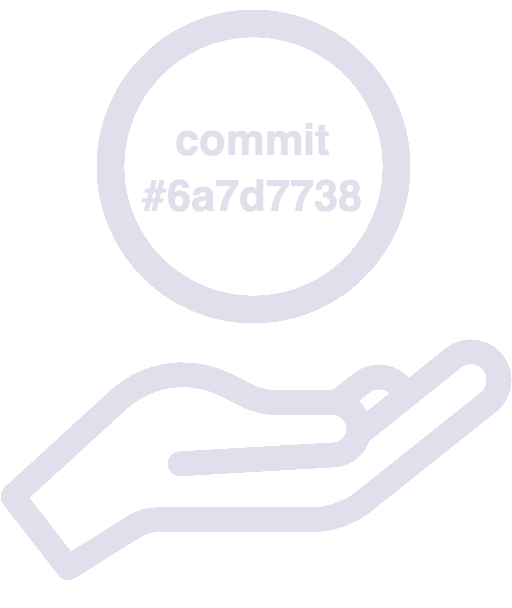
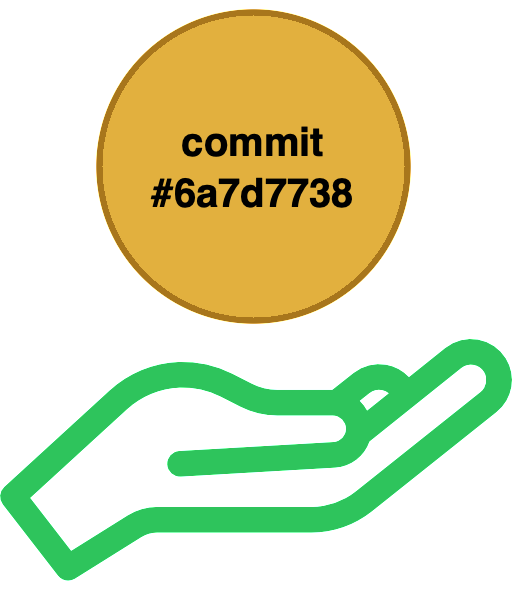
Invite spare tokens from the dropdown and show a green hand under a gold coin.

diff --git a/frontend/src/components/CommitDonate.tsx b/frontend/src/components/CommitDonate.tsx
@@ -211,7 +211,7 @@ export function CommitDonate() {
       ? 'Could not load issues'
       : issues.length === 0
         ? 'No open bugs or enhancements'
-        : 'bug or enhancement';
+        : 'got spare token? DIY enhancment!';
 
   return (
     <>
@@ -221,7 +221,7 @@ export function CommitDonate() {
           value={selectedNumber}
           disabled={status !== 'ready' || issues.length === 0}
           onChange={(event) => setSelectedNumber(event.target.value)}
-          className="max-w-[16rem] min-w-[12rem] bg-wave-bg border border-wave-border rounded px-2 py-1.5 text-xs text-wave-text disabled:opacity-60"
+          className="max-w-[22rem] min-w-[16rem] bg-wave-bg border border-wave-border rounded px-2 py-1.5 text-xs text-wave-text disabled:opacity-60"
           title={status === 'error' ? errorMessage : 'Open bugs and enhancements'}
         >
           <option value="">{placeholder}</option>
